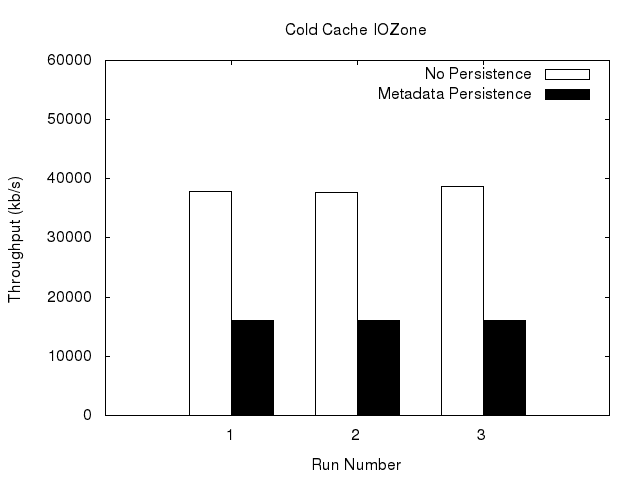
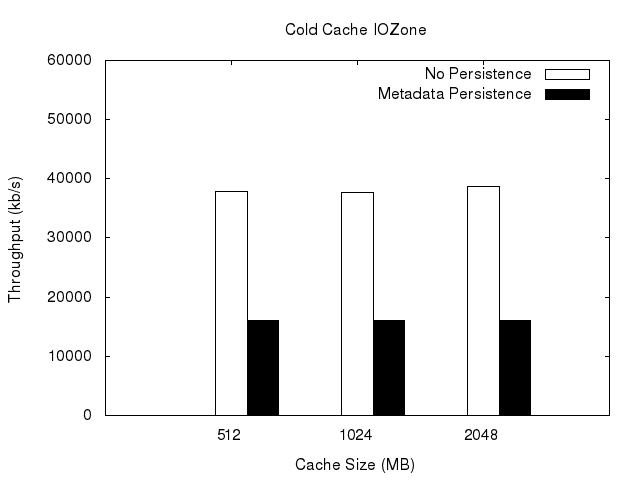
Fixed graphs and some sections

diff --git a/Paper/evaluation.tex b/Paper/evaluation.tex
@@ -6,18 +6,15 @@ DM-Cache running on Linux kernel version 3.3. To evaluate this we use
 the workloads offered by the IOZone benchmark to evaluate the overhead
 of this mechanism.
 
-We use two testing machines and iSCSI and assign one of the machines
-to be the client and the other the storage target using Open-iSCSI. We
-evaluated our approach on an Mtron Pro 7500 64GB SSD. We used an Mtron
-SSD to get a good upper bound on our performance overhead as Mtron
-SSD's (as compared to Intel and Vertex SSD's) have slower write
-performance \cite{FIOS}.
+For testing we connected two machines via iSCSI. One machine serves as
+the iSCSI-target/network-storage and is running Ubuntu 11.10. The
+second machine serves as the iSCSI-client running Arch Linux with the
+3.3 kernel and issues the storage requests to the iSCSI-target.
 
-Testing was also done use a 128GB Vertex SSD but we saw no performance
-overhead due to the high write efficiency of Vertex SSD's for these
-types of workloads \cite{FIOS}. We omit these results as the
-throughput was the same in all cases both with and without our
-metadata persistence mechanism.
+We evaluated our approach on an Mtron Pro 7500 64GB SSD. We used an
+Mtron SSD to get a good upper bound on our performance overhead as
+Mtron SSD's (as compared to Intel and Vertex SSD's) have slower write
+performance \cite{FIOS}.
 
 Due to issues with the implementation of the write-back mechanism
 within DM-Cache we only show evaluation of DM-Cache using our
@@ -37,12 +34,13 @@ evaluation the only throughput results that are meaningful to us are
 the read throughput statistics. Reread is not significant because that
 will use the data that is cached in RAM.
 
-For each test run we create and initialize a new 2GB cache and run
-IOZone with different I/O sizes and record the results. To evaluate
-the results of a warm cache we simply run the read workload in IOZone
-and then drop the page cache for the system so that it is forced to do
-I/O rather than simply reading the information from RAM while the
-information is still stored in the cache.
+For each test run we create and initialize a new cache and run IOZone
+on different sized caches and record the results. We use cache sizes
+of 512MB, 1GB and 2GB. To evaluate the results of a warm cache we
+simply run the read workload in IOZone and then drop the page cache
+for the system so that it is forced to do I/O rather than simply
+reading the information from RAM while the information is still stored
+in the cache.
 
 \graphicspath{{../Results/}}
 

diff --git a/Paper/discussion.tex b/Paper/discussion.tex
@@ -6,9 +6,11 @@ can range from no overhead at all to as high as a 25\% to 50\%
 reduction in throughput. The Vertex SSD far outperformed the Mtron SSD
 in terms of writes and thus was able to mask the overhead of our
 persistence mechanism by using internal hardware write
-optimizations. The Mtron SSD shows results of what could be considered
-our worst case scenario because, as stated previously, the Mtron SSD's
-write performance far trails that of the Vertex SSD. This is another
-consideration that can be used when determining whether to use our
-metadata persistence scheme as the choice of SSD manufacturer will
-affect performance.
+optimizations. Results for the Vertex SSD tests are not shown because
+they were only preliminary tests and we did not have access to the
+hardware for long enough to produce significant results. The Mtron SSD
+shows results of what could be considered our worst case scenario
+because, as stated previously, the Mtron SSD's write performance far
+trails that of the Vertex SSD. This is another consideration that can
+be used when determining whether to use our metadata persistence
+scheme as the choice of SSD manufacturer will affect performance.

diff --git a/Paper/implementation.tex b/Paper/implementation.tex
@@ -62,8 +62,8 @@ cache to its previous state.
 \subsubsection{Persistence Mechanism}
 
 In DM-Cache all work that does I/O is managed through a central work
-queue. Whenever a cached block is either: \textcolor{red}{methods that
-  call write\_metadata()}, we mark the metadata block that needs to be
+queue. Whenever a cached block is either: inserted, invalidated, or
+when a write completes, we mark the metadata block that needs to be
 written to disk and place it on the work queue along with the I/O for
 the actual data.
 
